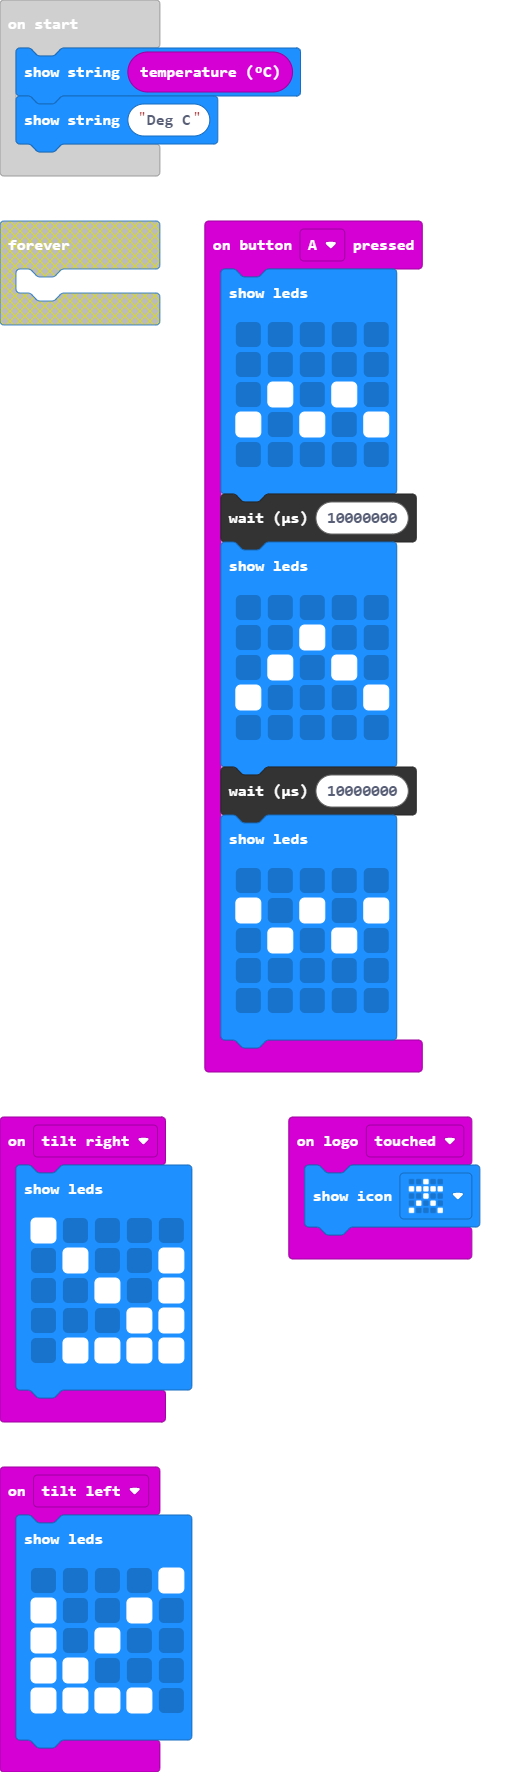
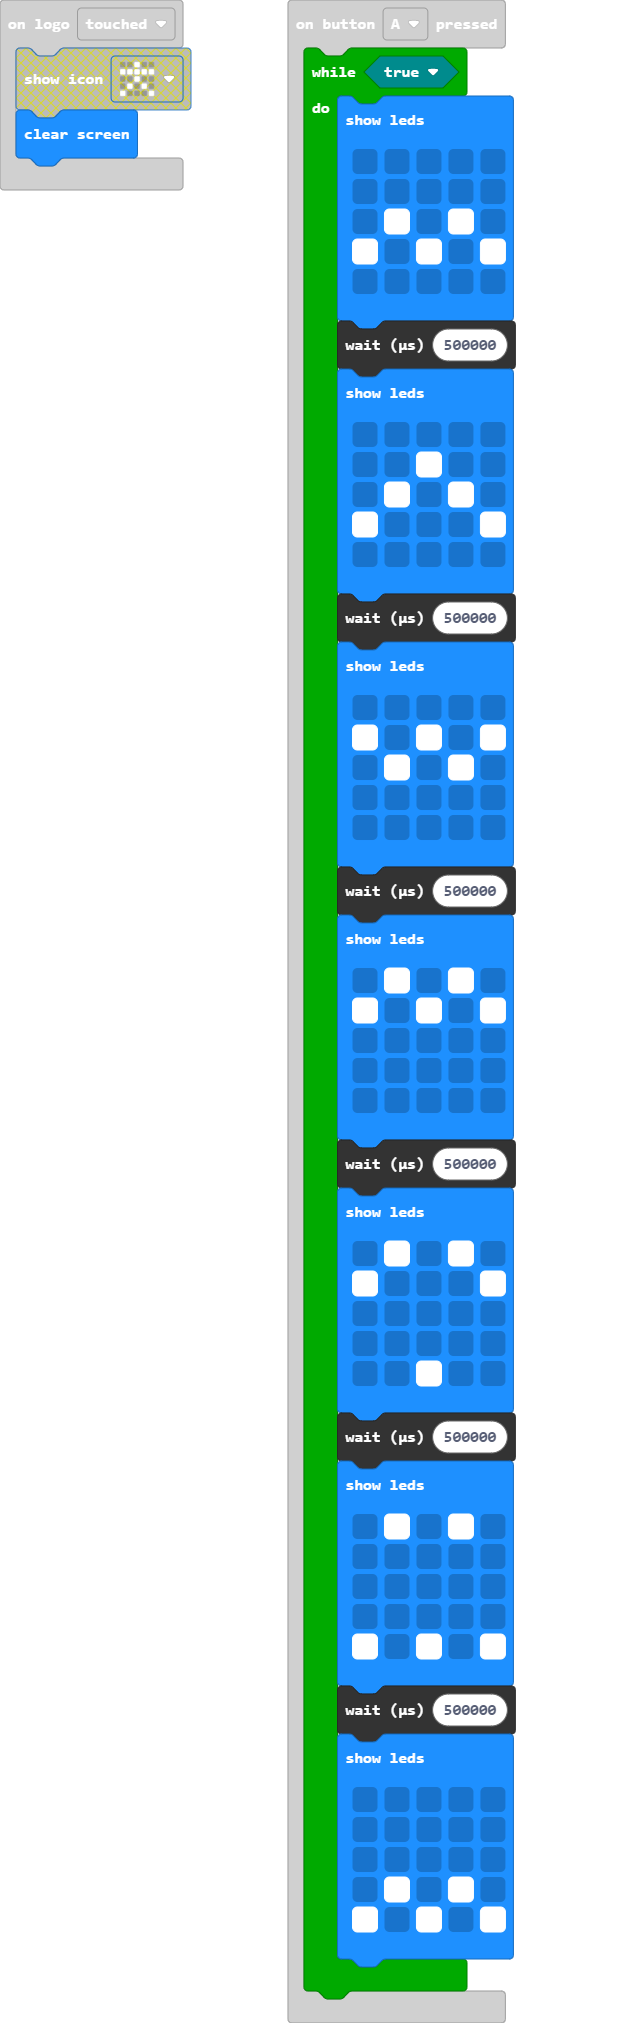
Update main.blocks, main.ts

diff --git a/main.ts b/main.ts
@@ -1,27 +1,61 @@
 input.onButtonPressed(Button.A, function () {
-    basic.showLeds(`
-        . . . . .
-        . . . . .
-        . # . # .
-        # . # . #
-        . . . . .
-        `)
-    control.waitMicros(10000000)
-    basic.showLeds(`
-        . . . . .
-        . . # . .
-        . # . # .
-        # . . . #
-        . . . . .
-        `)
-    control.waitMicros(10000000)
-    basic.showLeds(`
-        . . . . .
-        # . # . #
-        . # . # .
-        . . . . .
-        . . . . .
-        `)
+    while (true) {
+        basic.showLeds(`
+            . . . . .
+            . . . . .
+            . # . # .
+            # . # . #
+            . . . . .
+            `)
+        control.waitMicros(500000)
+        basic.showLeds(`
+            . . . . .
+            . . # . .
+            . # . # .
+            # . . . #
+            . . . . .
+            `)
+        control.waitMicros(500000)
+        basic.showLeds(`
+            . . . . .
+            # . # . #
+            . # . # .
+            . . . . .
+            . . . . .
+            `)
+        control.waitMicros(500000)
+        basic.showLeds(`
+            . # . # .
+            # . # . #
+            . . . . .
+            . . . . .
+            . . . . .
+            `)
+        control.waitMicros(500000)
+        basic.showLeds(`
+            . # . # .
+            # . . . #
+            . . . . .
+            . . . . .
+            . . # . .
+            `)
+        control.waitMicros(500000)
+        basic.showLeds(`
+            . # . # .
+            . . . . .
+            . . . . .
+            . . . . .
+            # . # . #
+            `)
+        control.waitMicros(500000)
+        basic.showLeds(`
+            . . . . .
+            . . . . .
+            . . . . .
+            . # . # .
+            # . # . #
+            `)
+    }
 })
 input.onGesture(Gesture.TiltLeft, function () {
     basic.showLeds(`
@@ -42,7 +76,7 @@ input.onGesture(Gesture.TiltRight, function () {
         `)
 })
 input.onLogoEvent(TouchButtonEvent.Touched, function () {
-    basic.showIcon(IconNames.StickFigure)
+    basic.clearScreen()
 })
 basic.showString("" + (input.temperature()))
 basic.showString("Deg C")
